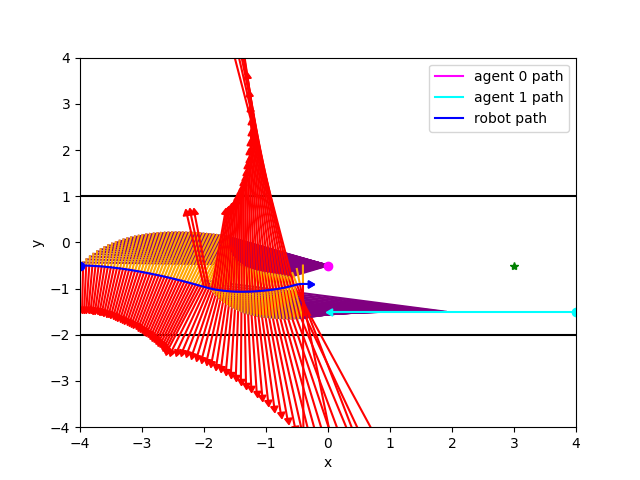
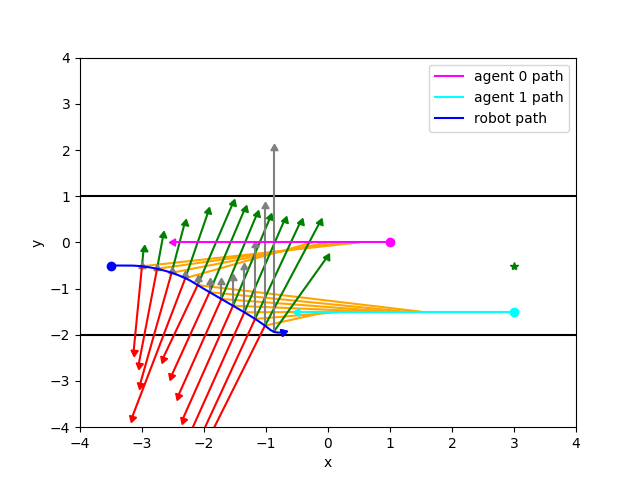
24

Changed region(s): [[0.125, 0.125, 0.6875, 0.9062], [0.7812, 0.625, 0.9062, 0.6562], [0.1875, 0.8438, 0.2188, 0.875]]

diff --git a/test_alg.py b/test_alg.py
@@ -10,7 +10,7 @@ from simple_pid import PID
 PICTURE_PATH = '/Users/wtw/Desktop/pddmrcs/test_results/'
 # PICTURE_PATH = /home/wtw-ub/workspace/pddmrcs/test_results/
 RATE = 100
-PLOT_PERIOD_TICKS = 10
+PLOT_PERIOD_TICKS = 50
 TIME = 60
 
 MAX_DIST = 4
@@ -61,10 +61,14 @@ def social_force_test(robot_pose, robot_vel, agent_vel, agent_pose, iteration = 
     agent_to_robot_vel_x = agent_vel[0] - robot_vel[0]
     agent_to_robot_vel_y = agent_vel[1] - robot_vel[1]
     agent_to_robot_vel = numpy.array([agent_to_robot_vel_x, agent_to_robot_vel_y, 0], numpy.dtype("float64"))
+    
+    
     agent_to_robot_vel_norm = numpy.linalg.norm(agent_to_robot_vel, ord=2)
     if agent_to_robot_vel_norm < EPS:
         # plot_it(robot_pose, [0,0], color='red', aster=True)
         return numpy.array([0,0,0], numpy.dtype('float64'))
+
+
     agent_to_robot_vel_angle_cos = numpy.dot(actual_dist, agent_to_robot_vel) / (actual_dist_norm * agent_to_robot_vel_norm)
     if agent_to_robot_vel_angle_cos < math.cos(math.pi/4): 
         # plot_it(robot_pose, [0,0], color='red', aster=True)
@@ -73,6 +77,9 @@ def social_force_test(robot_pose, robot_vel, agent_vel, agent_pose, iteration = 
     agent_to_robot_dist = actual_dist_norm * agent_to_robot_vel_angle_cos * agent_to_robot_vel_unit
     collision_dist = actual_dist - agent_to_robot_dist
     collision_dist_norm = numpy.linalg.norm(collision_dist, ord=2)
+
+
+
     if collision_dist_norm < EPS:
         collision_dist = (  EPS * 
                             numpy.cross(  robot_vel/robot_vel_norm, 
@@ -80,15 +87,12 @@ def social_force_test(robot_pose, robot_vel, agent_vel, agent_pose, iteration = 
                                         (-1)**(chasing)
                             )
         collision_dist_norm = EPS
+
+
+
     agent_to_robot_dist_norm = numpy.linalg.norm(agent_to_robot_dist, ord=2)
     collision_time = agent_to_robot_dist_norm/agent_to_robot_vel_norm
-
     social_force = coef_a * (M*robot_vel_norm/(collision_time)) * math.exp( - collision_dist_norm / coef_b) * (collision_dist / collision_dist_norm)
-    # social_force = coef_a * ((MAX_DIST - agent_to_robot_dist_norm)*agent_to_robot_dist_norm) * math.exp( - collision_dist_norm / coef_b) * (collision_dist / collision_dist_norm)
-    # (MAX_DIST - agent_to_robot_dist_norm)*agent_to_robot_dist_norm
-    
-    
-    
     
     
     
@@ -133,6 +137,7 @@ def social_force_test(robot_pose, robot_vel, agent_vel, agent_pose, iteration = 
         plot_it(agent_pose, agent_to_robot_dist, color='purple')
         plot_it(robot_pose, -collision_dist, color='orange')
         plot_it(robot_pose, [social_force[0],social_force[1]], color='red', arrow=True)
+        # plot_it(agent_pose, actual_dist, color='orange')
         pass
     # print(f'social force: {social_force[0]: 3.3f} {social_force[1]: 3.3f}')
     return social_force
@@ -287,6 +292,9 @@ def test_situation_multi(*,
         if _print:
             if (not i%PLOT_PERIOD_TICKS):
                 pass
+                # for j in range(len(agent_pose)):
+                # for j in range(1):
+                #     plot_it(agent_pose[j], robot_pose-agent_pose[j], color='orange')
                 # if numpy.linalg.norm(goal_force):
                 #     plot_it(robot_pose, goal_force, color='green', arrow=True)
                 # if numpy.linalg.norm(obstacle_force):
@@ -492,14 +500,14 @@ def look_for_optimal():
 
 def main():
     
-    res = nerand_test_multi(gp_x = 3,           gp_y = -.5,
-                            rp_x = -4,          rp_y = -.5,
+    res = nerand_test_multi(gp_x = 3.,           gp_y = -.5,
+                            rp_x = -3.5,          rp_y = -.5,
                             rv_x = MAX_VEL,     rv_y = 0,
-                            ap1_x = 0,          ap1_y = -0.5,
-                            av1_x = MAX_VEL*0,   av1_y = -0.0,
-                            ap2_x = 2,          ap2_y = -1.5,
+                            ap1_x = 1,          ap1_y = -0.,
+                            av1_x = -MAX_VEL,   av1_y = -0.0,
+                            ap2_x = -30,          ap2_y = -1.5,
                             av2_x = -MAX_VEL,   av2_y = 0,
-                            coef_g = 5/M,
+                            coef_g = .5,
                             coef_a = 1.5,
                             coef_b = 4.9,
                             coef_o = 5, 
